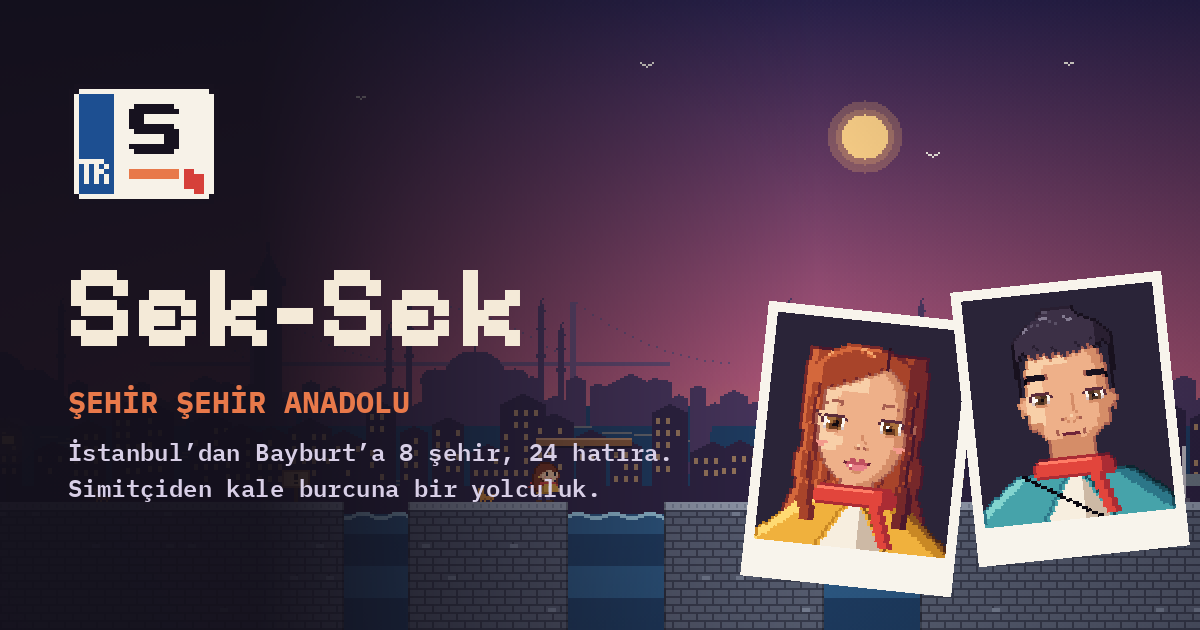
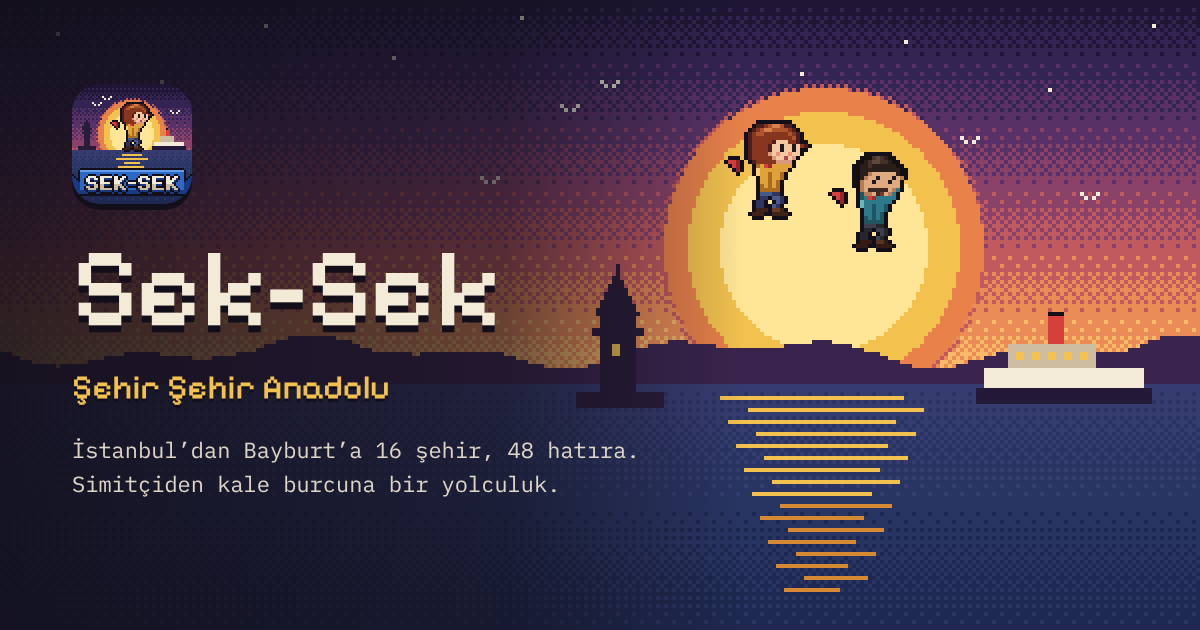
feat(marka): yeni ikonla uyumlu paylaşım görseli, mobilde üst karartı giderildi
- Paylaşım görseli (OG ve Twitter): Boğaz'da gün batımı, Kız Kulesi, vapur, güneşin önünde zıplayan Uktun ve Memo; yeni amblem ve güncel metin (16 şehir, 48 hatıra)
- scripts/art/icons.py --og-scene arka planı çizer, scripts/art/og.cjs başlığı oyunun yazı tipleriyle dizer
- Oyun tuvali artık durum çubuğunun altından başlıyor; iOS'un durum çubuğu altındaki karartma ve bulanıklığı oyunun üstüne düşmüyor, şerit düz koyu renk

Claude-Session: https://claude.ai/code/session_01CjLDHjtBmjGAKQY9E7gkHW

diff --git a/components/Game.tsx b/components/Game.tsx
@@ -116,7 +116,8 @@ export default function Game() {
     input.attach()
 
     const fit = () => {
-      renderer.resize(window.innerWidth, window.innerHeight, Math.min(window.devicePixelRatio || 1, 3))
+      // tuval durum çubuğunun altından başlar (iOS orayı karartıp bulanıklaştırır); ölçü tuvalin kendisinden
+      renderer.resize(canvas.clientWidth || window.innerWidth, canvas.clientHeight || window.innerHeight, Math.min(window.devicePixelRatio || 1, 3))
       if (worldRef.current) renderer.setLevel(worldRef.current)
     }
     fit()
@@ -402,7 +403,7 @@ export default function Game() {
   return (
     <LangProvider value={lang}>
     <div className="game-root">
-      <canvas ref={canvasRef} className="absolute inset-0 h-full w-full" style={{ imageRendering: 'pixelated' }} aria-label={t("Oyun alanı")} />
+      <canvas ref={canvasRef} className="absolute inset-x-0 bottom-0 w-full" style={{ imageRendering: 'pixelated', top: 'env(safe-area-inset-top)', height: 'calc(100% - env(safe-area-inset-top))' }} aria-label={t("Oyun alanı")} />
 
       {screen === 'play' && (
         <>

diff --git a/app/globals.css b/app/globals.css
@@ -74,6 +74,8 @@ input {
   position: fixed;
   inset: 0;
   touch-action: none;
+  /* durum çubuğu şeridi düz koyu kalır; iOS'un kenar karartması düz renkte görünmez */
+  background: #120f1a;
 }
 
 @layer components {

diff --git a/scripts/art/icons.py b/scripts/art/icons.py
@@ -5,6 +5,7 @@
 - app/favicon.ico: 32x32; güneşin önünde küçük Uktun, sekmede 16 px'te de okunur
 
     python3 scripts/art/icons.py
+    python3 scripts/art/icons.py --og-scene out.png    # paylaşım görselinin arka planı (scripts/art/og.cjs yazıyı dizer)
 """
 import math
 import os
@@ -23,6 +24,7 @@ RED = (214, 64, 58)
 RED_D = (150, 38, 40)
 GOLD = (242, 193, 78)
 GOLD_L = (255, 230, 150)
+GOLD_D = (214, 138, 52)
 ORANGE = (232, 129, 74)
 SIL = (36, 24, 56)
 TOWER = (40, 28, 58)
@@ -251,6 +253,48 @@ def favicon():
     return c
 
 
+def og_scene(path):
+    """Paylaşım görselinin arka planı: 300x158 ızgara, 4 kat = 1200x632. Sol yarı yazıya ayrılır."""
+    c = C(300)
+    c.gradient(0, 96, DUSK)
+    for x, y in ((14, 8), (40, 20), (66, 6), (98, 14), (130, 4), (226, 10), (262, 22), (288, 6), (200, 18)):
+        c.put(x, y, CREAM)
+    c.disc(206, 62, 40, ORANGE, dither=DUSK[4])
+    c.disc(206, 62, 34, GOLD, dither=ORANGE)
+    c.disc(206, 62, 26, GOLD_L, dither=GOLD)
+    # karşı kıyı: alçak tepeler
+    for x in range(300):
+        top = 88 + int(3 * math.sin(x / 17) + 2 * math.sin(x / 7))
+        c.rect(x, top, 1, 96 - top, (58, 36, 78))
+    c.gradient(96, 158, SEA)
+    for k, y in enumerate(range(99, 150, 3)):
+        w = max(4, 46 - k * 2)
+        x0 = 206 - w // 2 + (3 if k % 2 else -3)
+        c.rect(x0, y, w, 1, GOLD if k < 9 else GOLD_D)
+    # Kız Kulesi
+    c.rect(144, 98, 22, 4, TOWER)
+    c.rect(150, 78, 9, 20, TOWER)
+    c.rect(148, 82, 13, 2, TOWER)
+    tri(c, 154, 68, 78, 5, TOWER)
+    c.put(154, 66, TOWER)
+    c.put(154, 67, TOWER)
+    c.rect(153, 86, 2, 3, GOLD)
+    # vapur
+    c.rect(246, 92, 40, 7, CREAM)
+    c.rect(244, 97, 44, 4, SIL)
+    c.rect(252, 86, 22, 6, CREAM_D)
+    for x in range(254, 272, 4):
+        c.rect(x, 88, 2, 2, GOLD)
+    c.rect(262, 79, 4, 7, RED)
+    c.rect(262, 78, 4, 1, INK)
+    for gx, gy in ((140, 26), (150, 20), (240, 34), (120, 44), (270, 48)):
+        c.stamp(['#...#', '.#.#.'], {'#': CREAM}, gx, gy)
+    c.layer(hero_sprite('jump', 'uktun'), 180, 30)
+    c.layer(hero_sprite('jump', 'memo'), 206, 38)
+    im = c.image().crop((0, 0, 300, 158))
+    im.resize((1200, 632), Image.NEAREST).crop((0, 0, 1200, 630)).save(path)
+
+
 def main():
     full = Image.new('RGBA', (60, 60), INK + (255,))
     full.alpha_composite(icon().image())
@@ -262,4 +306,7 @@ def main():
 
 
 if __name__ == '__main__':
-    main()
+    if '--og-scene' in sys.argv:
+        og_scene(sys.argv[sys.argv.index('--og-scene') + 1])
+    else:
+        main()
